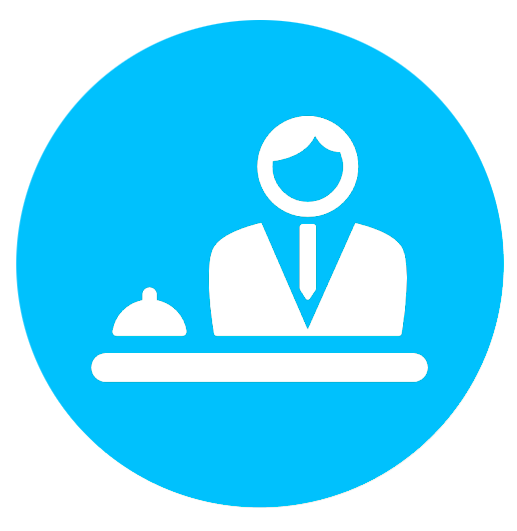
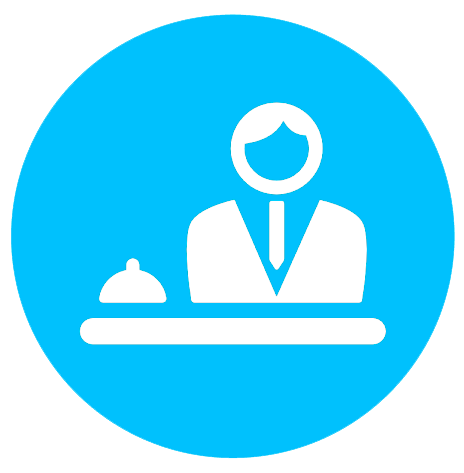
cambiando foto

diff --git a/src/js/views/ChoseUser.jsx b/src/js/views/ChoseUser.jsx
@@ -1,6 +1,7 @@
 import React from "react";
 import "../../styles/ChoseUser.css";
-import SignUp from "../views/SignUp.js";
+import pro from "../../img/pro.png";
+import viajero from "../../img/viajero.png";
 
 import PropTypes from "prop-types";
 const ChoseUser = props => {

diff --git a/src/styles/ChoseUser.css b/src/styles/ChoseUser.css
@@ -1,5 +1,5 @@
 .viajero{
-    background-image: url("../img/viajero-icon.png");
+    background-image: url("../img/viajero.png");
     background-repeat: none;
     background-size: cover;
     width:200px;
